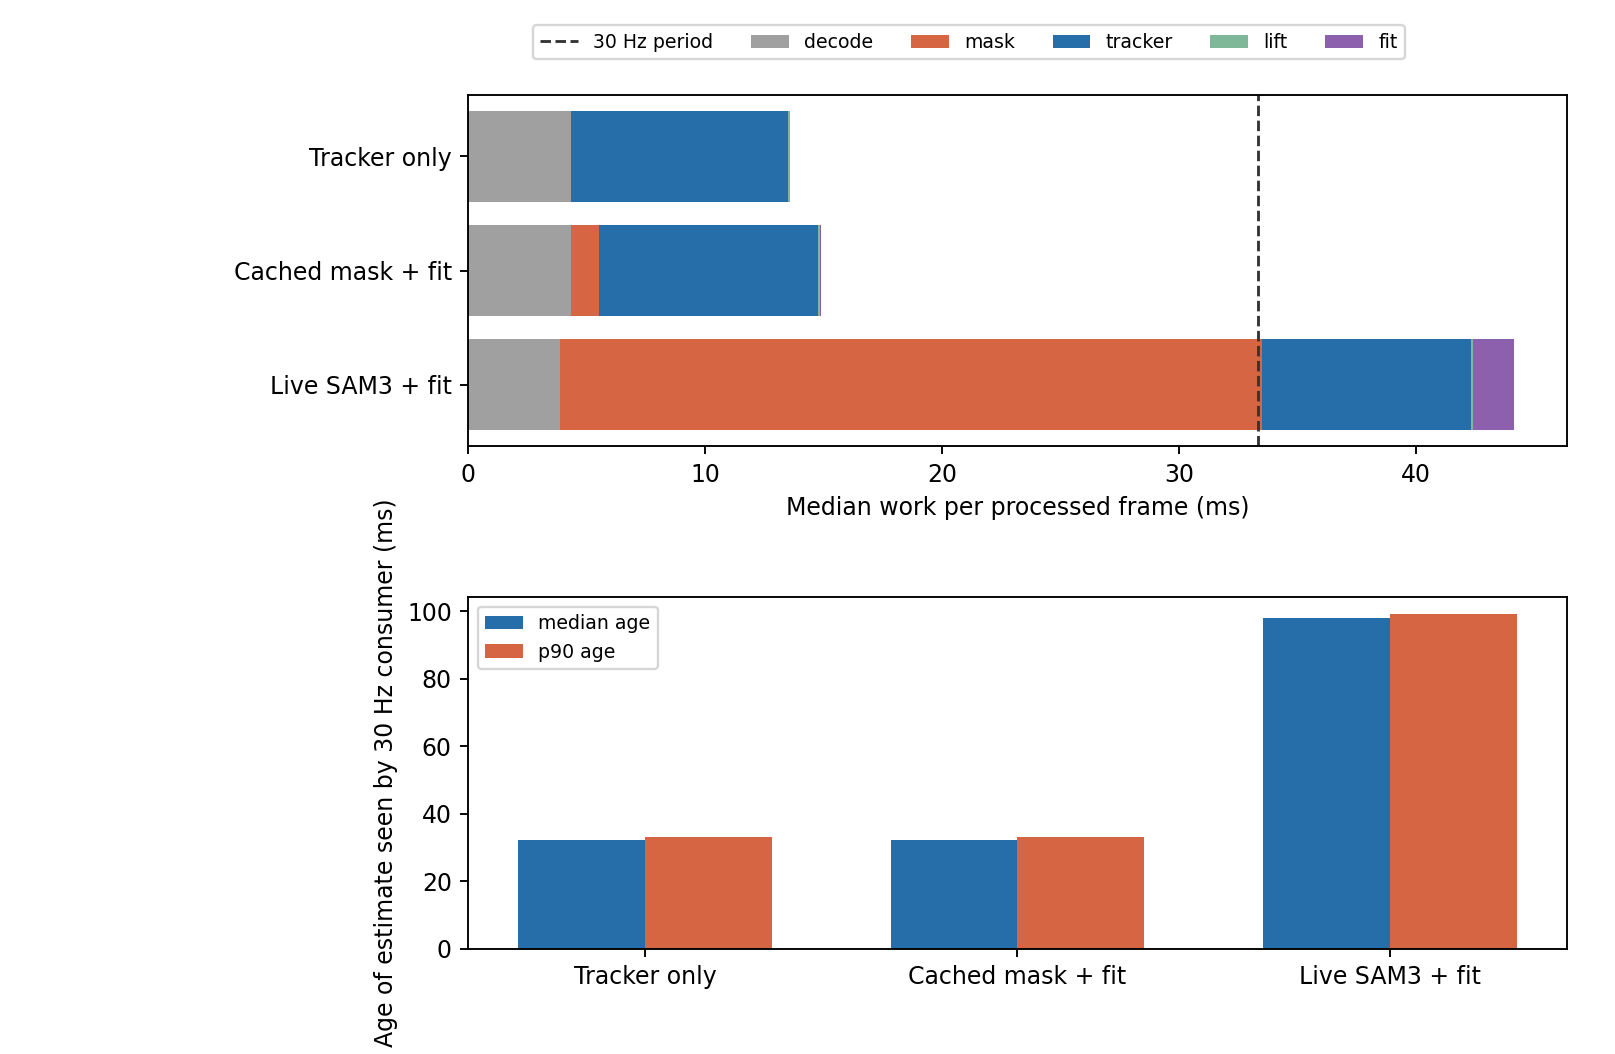
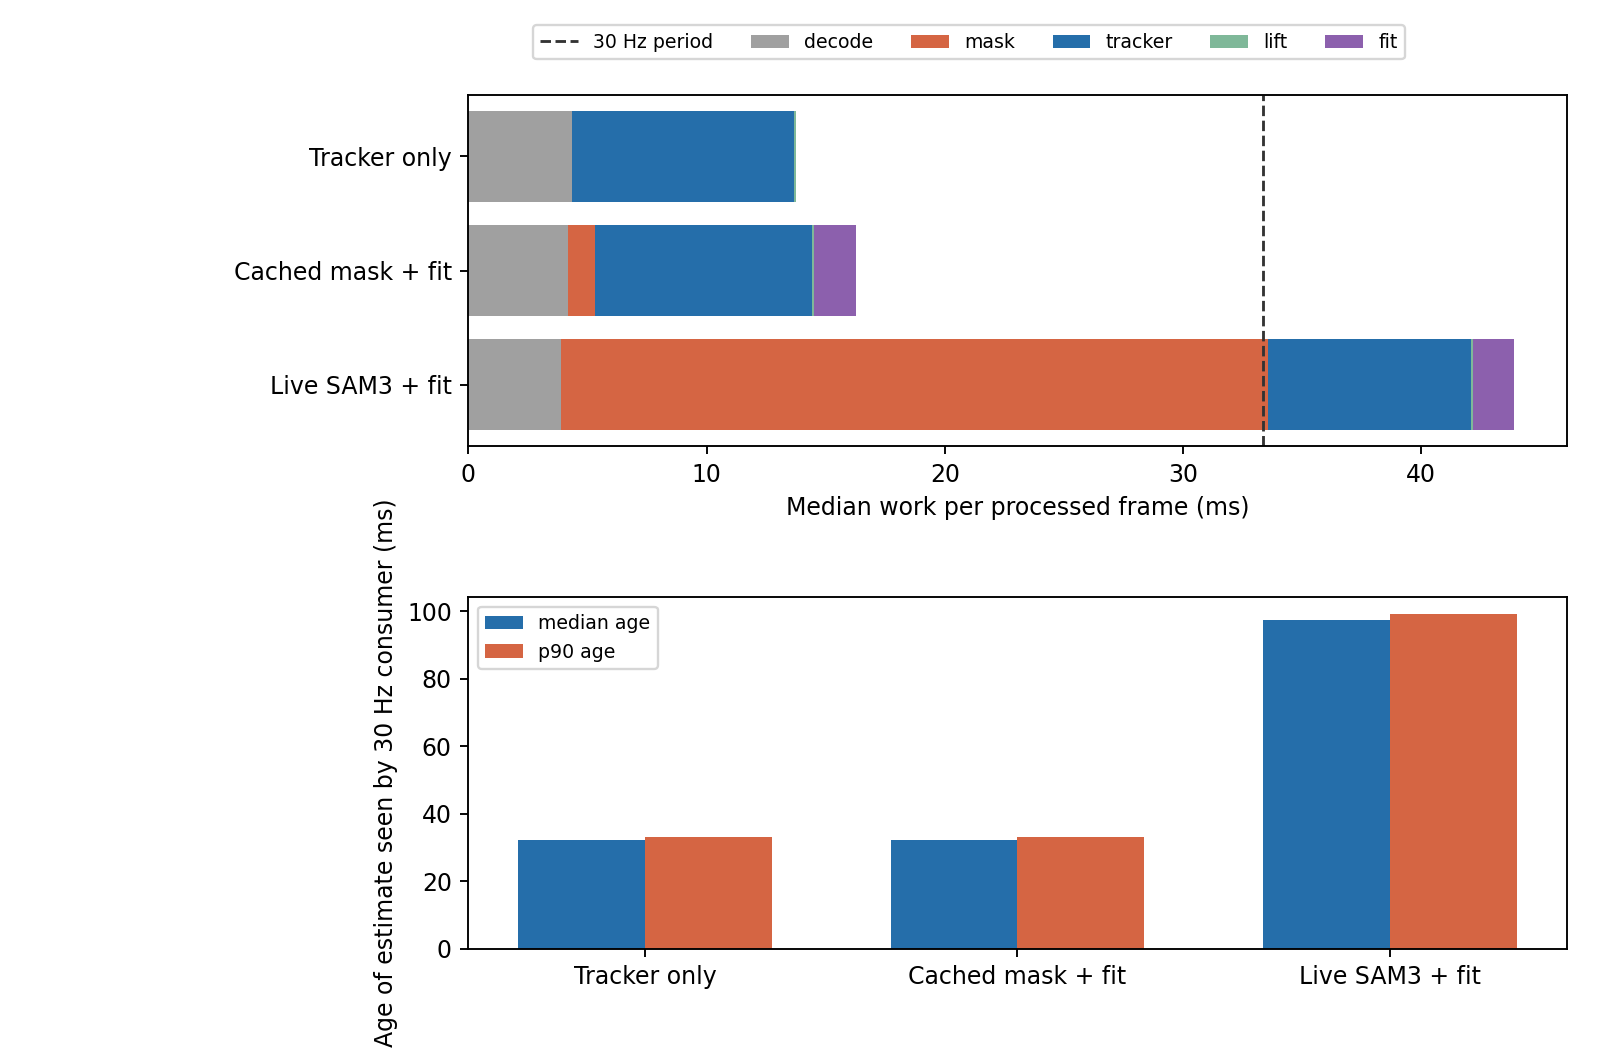
Match integrated timing to the point-quality checkpoint
The first integrated timing trace used a different TAPNext checkpoint than the raw-point benchmark. Its visibility predictions collapsed during the dowel clip, making fit availability incomparable. Rerun all three timing modes three times with the exact quality-benchmark checkpoint and regenerate the report and chart. With that correction, both fitted paths produce a fit on every processed frame; live SAM3 still limits fresh publications and raises result age.

The report now checks the source frames, query pixels and checkpoint against the raw-point run before accepting timing files. Verified the corrected report, deliberately substituted a wrong checkpoint and observed rejection, and ran Ruff and pre-commit.

diff --git a/benchmarks/flash_surface_integrated_report.py b/benchmarks/flash_surface_integrated_report.py
@@ -15,6 +15,9 @@ STAGES = ("decode_s", "mask_s", "tracker_s", "lift_s", "fit_s")
 def summarize(root: Path, output: Path) -> dict:
     records: dict[str, list[dict]] = {}
     checkpoints = set()
+    with np.load(root / "queries.npz", allow_pickle=False) as source:
+        reference_queries = source["queries"]
+        reference_frames = source["frames"]
     for mode in MODES:
         paths = sorted(root.glob(f"tapnext_integrated_{mode}_*.timing.json"))
         if len(paths) < 3:
@@ -27,6 +30,10 @@ def summarize(root: Path, output: Path) -> dict:
             checkpoints.add(report["checkpoint_sha256"])
             prediction_path = path.with_name(path.name.removesuffix(".timing.json") + ".npz")
             with np.load(prediction_path, allow_pickle=False) as trace:
+                if not np.array_equal(trace["queries"], reference_queries) or not np.array_equal(
+                    trace["frames"], reference_frames
+                ):
+                    raise ValueError(f"{path}: source frames or query points differ")
                 indices = np.asarray(report["pacing"]["publication_source_index"], int)
                 if len(indices) != report["pacing"]["processed_source_frames"]:
                     raise ValueError(f"{path}: publication/processed count differs")
@@ -51,6 +58,9 @@ def summarize(root: Path, output: Path) -> dict:
             )
     if len(checkpoints) != 1:
         raise ValueError("runs use different tracker checkpoints")
+    point_baseline = json.loads((root / "tapnext.timing.json").read_text())
+    if checkpoints != {point_baseline["checkpoint_sha256"]}:
+        raise ValueError("integrated tracker checkpoint differs from the raw-point quality comparison")
     summary = {
         "clip": root.name,
         "checkpoint_sha256": checkpoints.pop(),
@@ -90,7 +100,8 @@ def _write_markdown(summary: dict, path: Path) -> None:
         "# Paced tracker, mask and fit overhead",
         "",
         "Three independent process runs per mode on the same 91-frame, approximately 30 Hz local dowel clip. "
-        "All modes used the same TAPNext checkpoint and 64 first-frame queries. The consumer is a separate "
+        "All modes used the same TAPNext checkpoint as the labelled point-tracking comparison and 64 "
+        "first-frame queries. The consumer is a separate "
         "30 Hz Python thread; the producer processes the latest available source frame and publishes only "
         "after the selected stages finish. Live SAM3 is point-seeded on the first frame at 504 px and then "
         "propagated. This measures one serialized perception path, not the full FLASH robot or concurrent "
@@ -118,10 +129,9 @@ def _write_markdown(summary: dict, path: Path) -> None:
         "than its 33 ms tick period. No motor IO, camera capture, recording, display, planner or independent "
         "point-identity truth is part of this timing probe. Mask correctness and fit correctness must be "
         "evaluated separately; nonempty masks and available fits are not accuracy evidence. "
-        "The cached path's fit cost is near zero on many frames because the point frontend has fewer "
-        "than three visible points with valid measured depth there, so no 3D fit is possible. "
-        "The slower live-mask schedule skips source frames and therefore feeds a different sequence into "
-        "the temporal tracker; its higher fit availability must not be attributed to better masks.",
+        "Both modes with a fit produced one on every processed frame. The slower live-mask schedule skips "
+        "source frames and therefore feeds a different sequence into the temporal tracker; comparing "
+        "their pose errors would require scoring those actual processed frames against independent truth.",
         "",
     ]
     path.write_text("\n".join(lines))

diff --git a/docs/proofs/flash-visible-surface-benchmark/INTEGRATED.md b/docs/proofs/flash-visible-surface-benchmark/INTEGRATED.md
@@ -1,11 +1,11 @@
 # Paced tracker, mask and fit overhead
 
-Three independent process runs per mode on the same 91-frame, approximately 30 Hz local dowel clip. All modes used the same TAPNext checkpoint and 64 first-frame queries. The consumer is a separate 30 Hz Python thread; the producer processes the latest available source frame and publishes only after the selected stages finish. Live SAM3 is point-seeded on the first frame at 504 px and then propagated. This measures one serialized perception path, not the full FLASH robot or concurrent segmentation and point-tracking processes. The common rigid fit uses measured depth and 10 mm RANSAC residuals; its availability is not a pose-accuracy score.
+Three independent process runs per mode on the same 91-frame, approximately 30 Hz local dowel clip. All modes used the same TAPNext checkpoint as the labelled point-tracking comparison and 64 first-frame queries. The consumer is a separate 30 Hz Python thread; the producer processes the latest available source frame and publishes only after the selected stages finish. Live SAM3 is point-seeded on the first frame at 504 px and then propagated. This measures one serialized perception path, not the full FLASH robot or concurrent segmentation and point-tracking processes. The common rigid fit uses measured depth and 10 mm RANSAC residuals; its availability is not a pose-accuracy score.
 
 | Mask/fit mode   | Fresh frames | Fits available | Mask ms | Tracker ms | Fit ms, all frames | Age p50/p90 ms | Gap p90 ms | 30 Hz misses |
 | --------------- | -----------: | -------------: | ------: | ---------: | -----------------: | -------------: | ---------: | -----------: |
-| none            |        86/91 |              0 |     0.0 |        9.2 |                0.0 |      32.2/33.0 |       34.7 |            0 |
-| cached-mask-fit |        86/91 |             25 |     1.2 |        9.3 |                0.0 |      32.2/33.0 |       34.5 |            0 |
-| sam3-mask-fit   |        61/91 |             61 |    29.6 |        8.8 |                1.8 |      97.9/99.2 |       45.1 |            0 |
+| none            |        86/91 |              0 |     0.0 |        9.3 |                0.0 |      32.2/33.0 |       34.6 |            0 |
+| cached-mask-fit |        85/91 |             85 |     1.1 |        9.1 |                1.7 |      32.3/33.1 |       34.5 |            0 |
+| sam3-mask-fit   |        61/91 |             61 |    29.7 |        8.5 |                1.7 |      97.4/99.1 |       45.1 |            0 |
 
-[Stage and result-age chart](integrated_stage_breakdown.png). The mask/tracker/fit times exclude model loading but include per-frame work; first-frame model warmup is included in skipped-frame and age counts. All fit and depth stages run after tracking. A ticking consumer can still act on an old estimate: the live-mask mode's p90 age is much larger than its 33 ms tick period. No motor IO, camera capture, recording, display, planner or independent point-identity truth is part of this timing probe. Mask correctness and fit correctness must be evaluated separately; nonempty masks and available fits are not accuracy evidence. The cached path's fit cost is near zero on many frames because the point frontend has fewer than three visible points with valid measured depth there, so no 3D fit is possible. The slower live-mask schedule skips source frames and therefore feeds a different sequence into the temporal tracker; its higher fit availability must not be attributed to better masks.
+[Stage and result-age chart](integrated_stage_breakdown.png). The mask/tracker/fit times exclude model loading but include per-frame work; first-frame model warmup is included in skipped-frame and age counts. All fit and depth stages run after tracking. A ticking consumer can still act on an old estimate: the live-mask mode's p90 age is much larger than its 33 ms tick period. No motor IO, camera capture, recording, display, planner or independent point-identity truth is part of this timing probe. Mask correctness and fit correctness must be evaluated separately; nonempty masks and available fits are not accuracy evidence. Both modes with a fit produced one on every processed frame. The slower live-mask schedule skips source frames and therefore feeds a different sequence into the temporal tracker; comparing their pose errors would require scoring those actual processed frames against independent truth.
